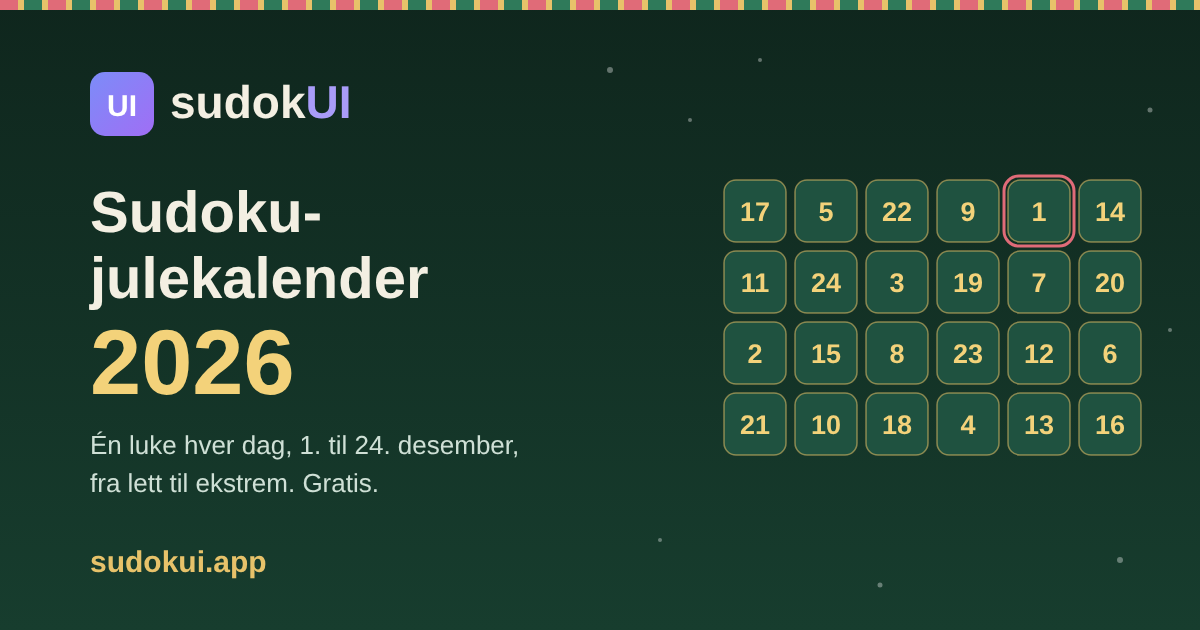
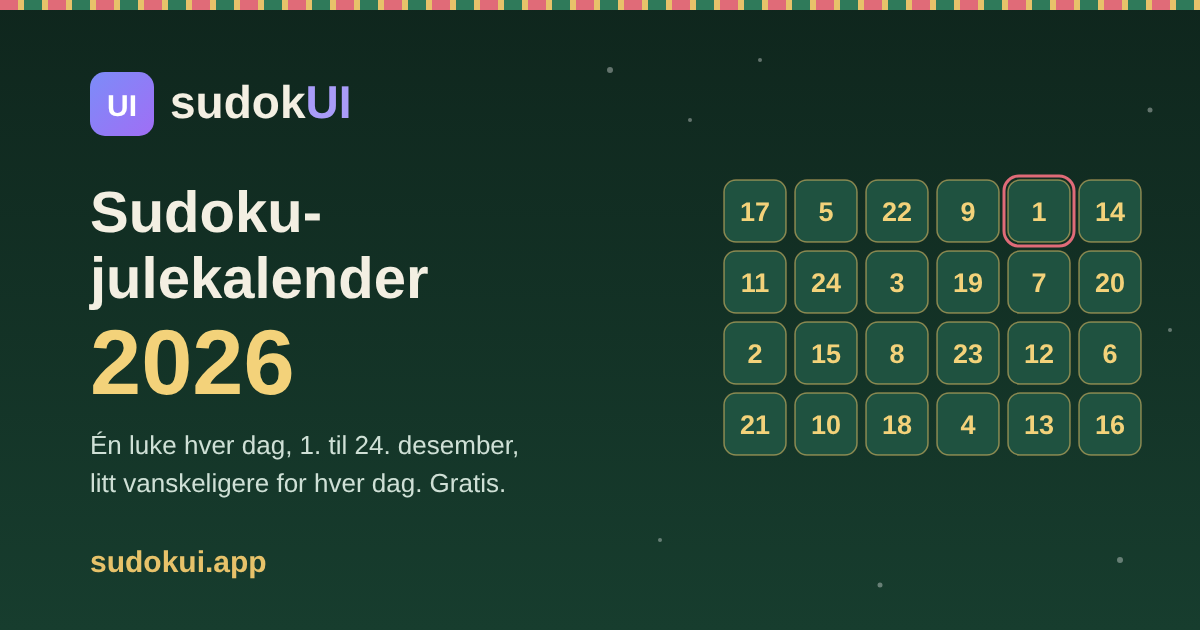
Every word about the calendar's climb says the gentle one, in en, nb and es
The doors now go from about 100 to about 1000, Easy to door 18 and Medium
from door 19 (the owner's decision of 15 November 2026). Every place that
said "from Easy to Extreme", "up to Extreme behind door 24" or "each door
adds about 100" says what the new doors are.

What the player gets:
- The calendar in the app: "Door 1 is very easy, and each door is a
  little harder than the one before; the last ones are a good Medium."
- The public pages (/advent/, /nb/julekalender/,
  /es/calendario-de-adviento/): the same in the intro; under How it
  works, door 1 rated about 100 and door 24 about 1000, every door rated
  higher than the one before, doors 1 to 18 Easy (singles only), doors
  19 to 24 Medium (they also take locked candidates, pairs or triples).
- For search: "Sudoku advent calendar 2026: a little harder each day",
  "Sudoku-julekalender 2026: litt vanskeligere hver dag", "Calendario de
  adviento de sudoku 2026: de menos a más" (53, 52 and 53 characters;
  "24 doors, a little harder each day" is 63 with the name and the year,
  so the 24 doors open the description). Descriptions of 155, 158 and
  157 characters say: very easy at first, a little harder each day, up
  to Medium.
- The calendar's social card, in three languages: "A door a day, 1 to 24
  December, a little harder each day. Free."
- A door's link preview, the New dialog's line and the season line on
  the home pages and /learn/ already said only "a little harder than the
[…]

Changed region(s): [[0.0617, 0.754, 0.4317, 0.7841]]

diff --git a/src/content/adventPage.ts b/src/content/adventPage.ts
@@ -45,7 +45,11 @@ export interface AdventPageCopy {
   /** the word on a door: locked (and how every door is written), open, today's, and closed after 31 December */
   state: { locked: string; open: string; today: string; closed: string };
   howHeading: string;
-  /** {top}: door 24's rating target, 2400, in the language's numbers */
+  /**
+   * {top}: door 24's rating target, 1000, in the language's numbers;
+   * {easy}: the last door that is Easy, and {medium}: the first that is
+   * Medium, as the calendar's own doors have them
+   */
   how: string[];
   play: string;
   daily: string;
@@ -60,12 +64,12 @@ export interface AdventPageCopy {
 export const ADVENT_PAGE: Record<Lang, AdventPageCopy> = {
   en: {
     name: 'Advent calendar',
-    title: 'Sudoku advent calendar {year}: 24 puzzles, easy to extreme',
+    title: 'Sudoku advent calendar {year}: a little harder each day',
     description:
-      'A sudoku behind each of 24 doors, one opening each day from 1 to 24 December, from Easy to Extreme. The same puzzle for everyone. Free, no account.',
+      'A sudoku behind each of 24 doors, one opening each day from 1 to 24 December. Very easy at first, a little harder each day, up to Medium. Free, no account.',
     h1: 'Sudoku advent calendar {year}',
     lead:
-      '24 doors, one for each day from 1 to 24 December, and a sudoku behind each. Door 1 is easy, and each door is a little harder than the one before, up to Extreme behind door 24. Everyone gets the same puzzle behind the same door.',
+      '24 doors, one for each day from 1 to 24 December, and a sudoku behind each. Door 1 is very easy, and each door is a little harder than the one before; the last ones are a good Medium. Everyone gets the same puzzle behind the same door.',
     statusStatic: 'Door 1 opens on 1 December {year}, and door 24 on 24 December.',
     status: {
       before: 'The calendar opens on 1 December {year}. Until then every door is locked.',
@@ -80,24 +84,24 @@ export const ADVENT_PAGE: Record<Lang, AdventPageCopy> = {
     howHeading: 'How it works',
     how: [
       'A door opens on its day, at midnight by your own clock, and stays open until 31 December, so a day you missed can be caught up. A door whose day has not come is locked: no link or address opens it early.',
-      'Behind door 1 is a puzzle rated about 100 on HoDoKu’s scale, behind door 24 one rated about {top}: each door adds about 100. Every door shows its level and rating, so you know what is coming.',
+      'Behind door 1 is a puzzle rated about 100 on HoDoKu’s scale, behind door 24 one rated about {top}, and every door is rated higher than the one before. Doors 1 to {easy} are Easy: singles only. Doors {medium} to 24 are Medium: they also take locked candidates, pairs or triples. Every door shows its level and rating, so you know what is coming.',
       'Solve a door without anything from the Assist box, such as hints, checks or automatic candidates, and you can send your time from the win screen and see where it stands among everyone’s, on the door’s day and up to a week late.',
       'From 1 January the calendar is closed. A door you have started stays in the app, and you can finish it.'
     ],
     play: 'Open sudokUI',
     daily: 'Play today’s daily',
     inApp: 'From 1 November the calendar is in sudokUI itself too, under New. Its doors open from 1 December.',
-    imageAlt: 'The sudokUI advent calendar {year}: 24 doors, from Easy to Extreme.',
+    imageAlt: 'The sudokUI advent calendar {year}: 24 doors, a little harder each day.',
     item: 'Door {door}, {date}: {level}, HoDoKu rating {score}'
   },
   nb: {
     name: 'Julekalender',
-    title: 'Sudoku-julekalender {year}: 24 luker, fra lett til ekstrem',
+    title: 'Sudoku-julekalender {year}: litt vanskeligere hver dag',
     description:
-      'En sudoku bak hver av 24 luker, én åpner hver dag fra 1. til 24. desember, fra lett til ekstrem. Den samme oppgaven for alle. Gratis, uten konto.',
+      'En sudoku bak hver av 24 luker, én åpner hver dag fra 1. til 24. desember. Veldig lett først, litt vanskeligere hver dag, opp til Middels. Gratis, uten konto.',
     h1: 'Sudoku-julekalender {year}',
     lead:
-      '24 luker, én for hver dag fra 1. til 24. desember, og en sudoku bak hver. Luke 1 er lett, og hver luke er litt vanskeligere enn den før, helt opp til Ekstrem bak luke 24. Alle får den samme oppgaven bak den samme luken.',
+      '24 luker, én for hver dag fra 1. til 24. desember, og en sudoku bak hver. Luke 1 er veldig lett, og hver luke er litt vanskeligere enn den før; de siste er på nivået Middels. Alle får den samme oppgaven bak den samme luken.',
     statusStatic: 'Luke 1 åpner 1. desember {year}, og luke 24 den 24. desember.',
     status: {
       before: 'Kalenderen åpner 1. desember {year}. Til da er alle lukene låst.',
@@ -112,24 +116,24 @@ export const ADVENT_PAGE: Record<Lang, AdventPageCopy> = {
     howHeading: 'Slik virker den',
     how: [
       'En luke åpner på dagen sin, ved midnatt etter din egen klokke, og står åpen til 31. desember, så en dag du gikk glipp av, kan tas igjen. En luke som ikke har fått dagen sin ennå, er låst: ingen lenke eller adresse åpner den før tiden.',
-      'Bak luke 1 er en oppgave med HoDoKu-poengsum rundt 100, bak luke 24 en med rundt {top}: hver luke legger til omtrent 100. Hver luke viser nivået og poengsummen sin, så du vet hva som kommer.',
+      'Bak luke 1 er en oppgave med HoDoKu-poengsum rundt 100, bak luke 24 en med rundt {top}, og hver luke har høyere poengsum enn den før. Luke 1 til {easy} er Lett: bare singler. Luke {medium} til 24 er Middels: der trengs også låste kandidater, par eller tripler. Hver luke viser nivået og poengsummen sin, så du vet hva som kommer.',
       'Løser du en luke uten noe fra Hjelp-boksen, som hint, sjekk eller autokandidater, kan du sende inn tiden din fra seiersskjermen og se hvor den står blant alles, på lukens dag og opptil en uke etter.',
       'Fra 1. januar er kalenderen stengt. En luke du har begynt på, blir værende i appen, og du kan fullføre den.'
     ],
     play: 'Åpne sudokUI',
     daily: 'Spill dagens sudoku',
     inApp: 'Fra 1. november finner du kalenderen også i selve sudokUI, under Ny. Lukene åpner fra 1. desember.',
-    imageAlt: 'Julekalenderen {year} i sudokUI: 24 luker, fra lett til ekstrem.',
+    imageAlt: 'Julekalenderen {year} i sudokUI: 24 luker, litt vanskeligere hver dag.',
     item: 'Luke {door}, {date}: {level}, HoDoKu-poengsum {score}'
   },
   es: {
     name: 'Calendario de adviento',
-    title: 'Calendario de adviento de sudoku {year}: de fácil a extremo',
+    title: 'Calendario de adviento de sudoku {year}: de menos a más',
     description:
-      'Un sudoku en cada una de las 24 casillas: se abre una cada día del 1 al 24 de diciembre, de fácil a extremo. El mismo sudoku para todos. Gratis, sin cuenta.',
+      '24 casillas con un sudoku en cada una, del 1 al 24 de diciembre. Muy fácil al principio, algo más difícil cada día, hasta el nivel Medio. Gratis, sin cuenta.',
     h1: 'Calendario de adviento de sudoku {year}',
     lead:
-      '24 casillas, una para cada día del 1 al 24 de diciembre, con un sudoku en cada una. La casilla 1 es fácil, y cada casilla es algo más difícil que la anterior, hasta Extremo en la casilla 24. Todo el mundo recibe el mismo sudoku en la misma casilla.',
+      '24 casillas, una para cada día del 1 al 24 de diciembre, con un sudoku en cada una. La casilla 1 es muy fácil, y cada casilla es algo más difícil que la anterior; las últimas son de nivel Medio. Todo el mundo recibe el mismo sudoku en la misma casilla.',
     statusStatic: 'La casilla 1 se abre el 1 de diciembre de {year}, y la casilla 24 el 24 de diciembre.',
     status: {
       before: 'El calendario se abre el 1 de diciembre de {year}. Hasta entonces todas las casillas están bloqueadas.',
@@ -144,14 +148,14 @@ export const ADVENT_PAGE: Record<Lang, AdventPageCopy> = {
     howHeading: 'Cómo funciona',
     how: [
       'Una casilla se abre en su día, a medianoche según tu propio reloj, y sigue abierta hasta el 31 de diciembre, así que puedes recuperar un día que te hayas saltado. Una casilla cuyo día no ha llegado está bloqueada: ningún enlace ni dirección la abre antes de tiempo.',
-      'En la casilla 1 hay un sudoku con una puntuación HoDoKu de unos 100, y en la casilla 24 uno de unos {top}: cada casilla suma unos 100. Cada casilla muestra su nivel y su puntuación, así que sabes lo que viene.',
+      'En la casilla 1 hay un sudoku con una puntuación HoDoKu de unos 100, y en la casilla 24 uno de unos {top}; cada casilla tiene una puntuación más alta que la anterior. Las casillas 1 a {easy} son de nivel Fácil: solo únicos. Las casillas {medium} a 24 son de nivel Medio: piden además candidatos bloqueados, parejas o ternas. Cada casilla muestra su nivel y su puntuación, así que sabes lo que viene.',
       'Si resuelves una casilla sin usar nada del cuadro Ayuda, como las pistas, las revisiones o los candidatos automáticos, puedes enviar tu tiempo desde la pantalla de victoria y ver qué lugar ocupa entre los de todos, el día de su casilla y hasta una semana después.',
       'A partir del 1 de enero el calendario está cerrado. Una casilla que hayas empezado se queda en la app, y puedes terminarla.'
     ],
     play: 'Abre sudokUI',
     daily: 'Juega al sudoku del día',
     inApp: 'A partir del 1 de noviembre, el calendario también está en sudokUI, en Nuevo. Sus casillas se abren a partir del 1 de diciembre.',
-    imageAlt: 'El calendario de adviento {year} de sudokUI: 24 casillas, de fácil a extremo.',
+    imageAlt: 'El calendario de adviento {year} de sudokUI: 24 casillas, algo más difícil cada día.',
     item: 'Casilla {door}, {date}: {level}, puntuación HoDoKu {score}'
   }
 };

diff --git a/tests/adventPage.test.ts b/tests/adventPage.test.ts
@@ -367,6 +367,32 @@ describe('the advent calendar’s pages', () => {
     expect(css).not.toMatch(/\.door[^{]*\{[^}]*opacity/);
   });
 
+  it('say the climb as the doors have it: about 100 to about 1000, a little harder each day, Easy to door 18 and Medium from door 19', () => {
+    // the doors the words are about
+    expect(doors.filter((d) => d.level === 'Easy').map((d) => d.door)).toEqual(Array.from({ length: 18 }, (_, i) => i + 1));
+    expect(doors.filter((d) => d.level === 'Medium').map((d) => d.door)).toEqual([19, 20, 21, 22, 23, 24]);
+    expect(Math.abs(doors[0].score - 100)).toBeLessThanOrEqual(10);
+    expect(Math.abs(doors[23].score - 1000)).toBeLessThanOrEqual(10);
+    for (let i = 1; i < doors.length; i++) expect(doors[i].score, `door ${i + 1}`).toBeGreaterThan(doors[i - 1].score);
+    const climb: Record<Lang, RegExp[]> = {
+      en: [/rated about 100 on HoDoKu’s scale, behind door 24 one rated about 1,000, and every door is rated higher than the one before/, /Doors 1 to 18 are Easy: singles only\. Doors 19 to 24 are Medium/],
+      nb: [/rundt 100, bak luke 24 en med rundt 1\s000, og hver luke har høyere poengsum enn den før/, /Luke 1 til 18 er Lett: bare singler\. Luke 19 til 24 er Middels/],
+      es: [/de unos 100, y en la casilla 24 uno de unos 1000; cada casilla tiene una puntuación más alta que la anterior/, /Las casillas 1 a 18 son de nivel Fácil: solo únicos\. Las casillas 19 a 24 son de nivel Medio/]
+    };
+    for (const lang of LEARN_LANGS) {
+      const { html } = PAGE[lang];
+      // (the page without its scripts: the door script keeps {door} to fill by the date)
+      const text = unescapeHtml(html.replace(/<script[\s\S]*?<\/script>/g, ''));
+      for (const re of climb[lang]) expect(text, `${lang} ${re}`).toMatch(re);
+      // every placeholder is filled
+      expect(text).not.toMatch(/\{\w+\}/);
+      // each door shows the rating the file gives it
+      for (const d of doors) expect(html).toContain(`<span class="sc">${d.score}</span>`);
+      // and nothing of the page, its title, its description or its card's words, speaks of a level above Medium
+      expect(text, lang).not.toMatch(/Extreme|Ekstrem|Extremo|extreme|ekstrem|extremo|Unfair|Urettferdig|Injusto|\bHard\b|Vanskelig\b|Difícil\b|2[.,\s]?400/);
+    }
+  });
+
   it('say the same in Norwegian and Spanish as in English, with the same numbers, in the house style', () => {
     const texts = (c: typeof ADVENT_PAGE.en) =>
       Object.entries(c).flatMap(([field, v]) =>
@@ -380,8 +406,7 @@ describe('the advent calendar’s pages', () => {
       expect(other.map(([f]) => f)).toEqual(en.map(([f]) => f));
       for (const [i, [field, text]] of other.entries()) {
         expect(placeholders(text), `${lang} ${field}`).toBe(placeholders(en[i][1]));
-        // (the Spanish title has no room for the 24 doors beside its long name)
-        if (!(lang === 'es' && field === 'title')) expect(numbers(text), `${lang} ${field}`).toBe(numbers(en[i][1]));
+        expect(numbers(text), `${lang} ${field}`).toBe(numbers(en[i][1]));
         expect(text, `${lang} ${field}`).not.toBe(en[i][1]);
       }
     }

diff --git a/tests/e2e/adventPages.spec.ts b/tests/e2e/adventPages.spec.ts
@@ -9,6 +9,11 @@
  * on /learn/ shows in November and December and not in October.
  */
 import { test, expect, Page } from '@playwright/test';
+import { readFileSync } from 'node:fs';
+import type { AdventDoor } from '../../src/content/advent';
+
+/** the published doors, read as a file: Playwright's loader takes no JSON import without an attribute */
+const published: AdventDoor[] = JSON.parse(new TextDecoder().decode(readFileSync('src/content/advent.json')));
 
 test.use({ viewport: { width: 320, height: 740 }, isMobile: true, hasTouch: true, serviceWorkers: 'block' });
 
@@ -36,6 +41,28 @@ test('in November every door is locked, with its day, and the page says when the
   await expect(page.locator('#advent-doors a.door').first()).toContainText('1. des.');
   // nothing to scroll sideways on a phone
   expect(await page.evaluate(() => document.documentElement.scrollWidth)).toBeLessThanOrEqual(320);
+});
+
+test('the page shows the gentle climb: every door with its level and rating, Easy to door 18 and Medium from door 19, and says so', async ({ page }) => {
+  await on(page, '2026-11-20');
+  await page.goto('/advent/');
+  await expect(page).toHaveTitle('Sudoku advent calendar 2026: a little harder each day');
+  await expect(page.locator('p.lead')).toContainText('Door 1 is very easy, and each door is a little harder than the one before; the last ones are a good Medium.');
+  await expect(page.getByText('Doors 1 to 18 are Easy: singles only. Doors 19 to 24 are Medium: they also take locked candidates, pairs or triples.')).toBeVisible();
+  const shown = await page.locator('#advent-doors a.door').evaluateAll((all) =>
+    all.map((a) => ({ door: Number(a.getAttribute('data-door')), level: a.querySelector('.lv')?.textContent ?? '', score: Number(a.querySelector('.sc')?.textContent) }))
+  );
+  expect(shown).toEqual(published.filter((d) => d.date.startsWith('2026-')).map((d) => ({ door: d.door, level: d.level, score: d.score })));
+  expect(shown.map((d) => d.level)).toEqual([...Array(18).fill('Easy'), ...Array(6).fill('Medium')]);
+  for (let i = 1; i < shown.length; i++) expect(shown[i].score, `door ${i + 1}`).toBeGreaterThan(shown[i - 1].score);
+  expect(shown[23].score).toBeLessThanOrEqual(1000);
+  // and in Norwegian and Spanish, in their own words
+  await page.goto('/nb/julekalender/');
+  await expect(page).toHaveTitle('Sudoku-julekalender 2026: litt vanskeligere hver dag');
+  await expect(page.locator('#advent-doors a.door .lv')).toHaveText([...Array(18).fill('Lett'), ...Array(6).fill('Middels')]);
+  await page.goto('/es/calendario-de-adviento/');
+  await expect(page).toHaveTitle('Calendario de adviento de sudoku 2026: de menos a más');
+  await expect(page.locator('#advent-doors a.door .lv')).toHaveText([...Array(18).fill('Fácil'), ...Array(6).fill('Medio')]);
 });
 
 test('on 5 December doors 1 to 5 open into the app, door 5 is today’s, and a door opens its game', async ({ page }) => {

diff --git a/tests/e2e/advent.spec.ts b/tests/e2e/advent.spec.ts
@@ -109,6 +109,29 @@ test.describe('the advent calendar', () => {
     await expect.poll(() => saved(page)).toMatchObject({ puzzle: EASY, door: null, aside: null });
   });
 
+  test('on 24 December every door is open, Easy to door 18 and Medium from door 19, as the calendar says, and the last door opens', async ({ page }) => {
+    await open(page, '2026-12-24', `/#p=${EASY}`);
+    await opened(page, EASY);
+    const dialog = await newDialog(page);
+    await dialog.getByRole('button', { name: /Advent calendar/ }).click();
+    const calendar = page.getByRole('dialog', { name: 'Advent calendar' });
+    await expect(calendar).toBeVisible();
+    // the climb in the calendar's own words (the owner's decision of 15 November 2026)
+    await expect(calendar.getByText('Door 1 is very easy, and each door is a little harder than the one before; the last ones are a good Medium.')).toBeVisible();
+    // every door with its level and rating, once the doors' list has loaded
+    await expect.poll(() => calendar.locator('button.advent-door .advent-rating span:first-child').allTextContents()).toEqual([...Array(18).fill('Easy'), ...Array(6).fill('Medium')]);
+    const ratings = (await calendar.locator('button.advent-door .advent-rating span:last-child').allTextContents()).map(Number);
+    expect(ratings).toEqual(doors.map((d) => d.score));
+    for (let i = 1; i < ratings.length; i++) expect(ratings[i], `door ${i + 1}`).toBeGreaterThan(ratings[i - 1]);
+    expect(ratings[23]).toBeLessThanOrEqual(1000);
+    for (const n of [1, 18, 19, 24]) await expect(calendar.getByRole('button', { name: `Door ${n}, ${n} December, ${door(n).level} ${door(n).score}` })).toBeEnabled();
+    // and the last door opens on the board
+    await calendar.getByRole('button', { name: `Door 24, 24 December, ${door(24).level} ${door(24).score}` }).click();
+    await expect(calendar).toHaveCount(0);
+    await expect.poll(() => saved(page)).toMatchObject({ puzzle: door(24).puzzle, door: 24 });
+    await expect.poll(() => path(page)).toBe('/advent/2026/24');
+  });
+
   test('on 1 December door 1 is open and door 2 locked; door 1 opens on the board at its own address', async ({ page }) => {
     await open(page, '2026-12-01', `/#p=${EASY}`);
     const dialog = await newDialog(page);

diff --git a/src/content/locales/ui.es.ts b/src/content/locales/ui.es.ts
@@ -892,7 +892,7 @@ const ui: Dictionary = {
   "Door {door} of the advent calendar could not be loaded. Check the connection and try again": "No se ha podido cargar la casilla {door} del calendario de adviento. Comprueba la conexión y vuelve a intentarlo",
   "Door {door} of the advent calendar. Everyone gets this same board": "Casilla {door} del calendario de adviento. Todo el mundo recibe este mismo tablero",
   "Advent calendar": "Calendario de adviento",
-  "A door a day from 1 to 24 December, the same puzzle for everyone. Door 1 is gentle, and each door is a little harder than the one before.": "Una casilla al día del 1 al 24 de diciembre, el mismo sudoku para todos. La casilla 1 es suave, y cada casilla es algo más difícil que la anterior.",
+  "A door a day from 1 to 24 December, the same puzzle for everyone. Door 1 is very easy, and each door is a little harder than the one before; the last ones are a good Medium.": "Una casilla al día del 1 al 24 de diciembre, el mismo sudoku para todos. La casilla 1 es muy fácil, y cada casilla es algo más difícil que la anterior; las últimas son de nivel Medio.",
   "Door {door}, opens on {date}": "Casilla {door}, se abre el {date}",
   "solved||a door of the advent calendar": "resuelta",
   "in progress||a door of the advent calendar": "empezada",

diff --git a/src/content/locales/ui.nb.ts b/src/content/locales/ui.nb.ts
@@ -892,7 +892,7 @@ const ui: Dictionary = {
   "Door {door} of the advent calendar could not be loaded. Check the connection and try again": "Luke {door} i julekalenderen kunne ikke lastes inn. Sjekk tilkoblingen og prøv igjen",
   "Door {door} of the advent calendar. Everyone gets this same board": "Luke {door} i julekalenderen. Alle får det samme brettet",
   "Advent calendar": "Julekalender",
-  "A door a day from 1 to 24 December, the same puzzle for everyone. Door 1 is gentle, and each door is a little harder than the one before.": "Én luke hver dag fra 1. til 24. desember, den samme oppgaven for alle. Luke 1 er lett, og hver luke er litt vanskeligere enn den før.",
+  "A door a day from 1 to 24 December, the same puzzle for everyone. Door 1 is very easy, and each door is a little harder than the one before; the last ones are a good Medium.": "Én luke hver dag fra 1. til 24. desember, den samme oppgaven for alle. Luke 1 er veldig lett, og hver luke er litt vanskeligere enn den før; de siste er på nivået Middels.",
   "Door {door}, opens on {date}": "Luke {door}, åpner {date}",
   "solved||a door of the advent calendar": "løst",
   "in progress||a door of the advent calendar": "påbegynt",

diff --git a/scripts/og-advent-card.ts b/scripts/og-advent-card.ts
@@ -29,9 +29,9 @@ import type { Lang } from '../src/state/settings';
 
 /** the card's words per language: the calendar's name on one or two lines, and two lines under the year */
 const WORDS: Record<Lang, { title: string[]; lines: [string, string] }> = {
-  en: { title: ['Sudoku advent', 'calendar'], lines: ['A door a day, 1 to 24 December,', 'from Easy to Extreme. Free.'] },
-  nb: { title: ['Sudoku-', 'julekalender'], lines: ['Én luke hver dag, 1. til 24. desember,', 'fra lett til ekstrem. Gratis.'] },
-  es: { title: ['Calendario de', 'adviento de sudoku'], lines: ['Una casilla al día, del 1 al 24 de diciembre,', 'de fácil a extremo. Gratis.'] }
+  en: { title: ['Sudoku advent', 'calendar'], lines: ['A door a day, 1 to 24 December,', 'a little harder each day. Free.'] },
+  nb: { title: ['Sudoku-', 'julekalender'], lines: ['Én luke hver dag, 1. til 24. desember,', 'litt vanskeligere for hver dag. Gratis.'] },
+  es: { title: ['Calendario de', 'adviento de sudoku'], lines: ['Una casilla al día, del 1 al 24 de diciembre,', 'un poco más difícil cada día. Gratis.'] }
 };
 
 /** the doors' places on the card, out of order as on a paper calendar: six a row, four rows */

diff --git a/src/content/learnPages.ts b/src/content/learnPages.ts
@@ -1043,6 +1043,13 @@ function adventCalendarPage(lang: Lang): Page {
   const card = SITE + adventCardPath(lang, year);
   // the address a door's number goes after: /advent/2026/, /nb/advent/2026/
   const doorBase = adventPath(lang, year, 1).slice(0, -1);
+  // the climb as the page says it, from the doors themselves: the rating
+  // door 24 aims at, the last Easy door and the first Medium one
+  const climb = {
+    top: lt.num(doorTarget(ADVENT_DOORS)),
+    easy: doors.filter((d) => d.level === 'Easy').length,
+    medium: doors.findIndex((d) => d.level === 'Medium') + 1
+  };
   const items = doors
     .map(
       (d) =>
@@ -1063,7 +1070,7 @@ ${items}
 ${doorScript(doorWords(c, year))}
       </script>
       <h2>${esc(c.howHeading)}</h2>
-${c.how.map((p) => `      <p>${esc(fillAdvent(p, { top: lt.num(doorTarget(ADVENT_DOORS)) }))}</p>`).join('\n')}
+${c.how.map((p) => `      <p>${esc(fillAdvent(p, climb))}</p>`).join('\n')}
       <div class="card">
         <p><a class="cta" href="${app(lang)}">${esc(c.play)}</a><a class="cta ghost" href="${app(lang, '#daily')}">${esc(c.daily)}</a></p>
         <p class="meta">${esc(c.inApp)}</p>

diff --git a/src/ui/Advent.tsx b/src/ui/Advent.tsx
@@ -48,7 +48,7 @@ export function AdventDialog({ today, onClose, onDoor }: { today: string; onClos
   return (
     <Modal title={t('Advent calendar')} onClose={onClose}>
       <p className="dialog-note">
-        {t('A door a day from 1 to 24 December, the same puzzle for everyone. Door 1 is gentle, and each door is a little harder than the one before.')}
+        {t('A door a day from 1 to 24 December, the same puzzle for everyone. Door 1 is very easy, and each door is a little harder than the one before; the last ones are a good Medium.')}
       </p>
       <ul className="advent-doors">
         {ALL.map((door) => {
